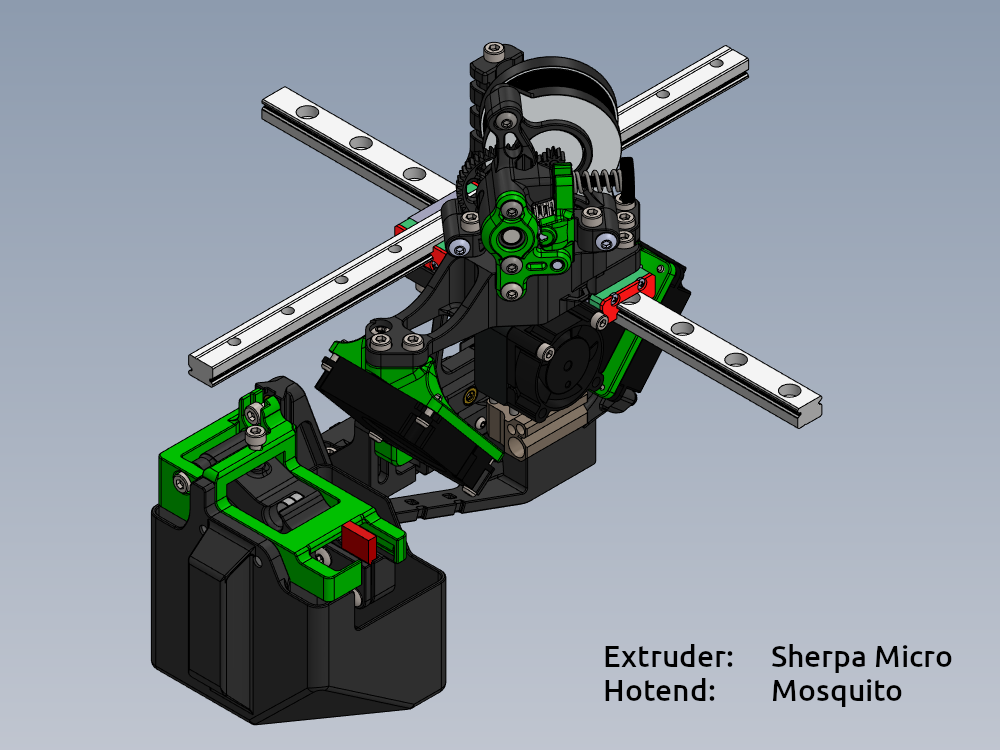
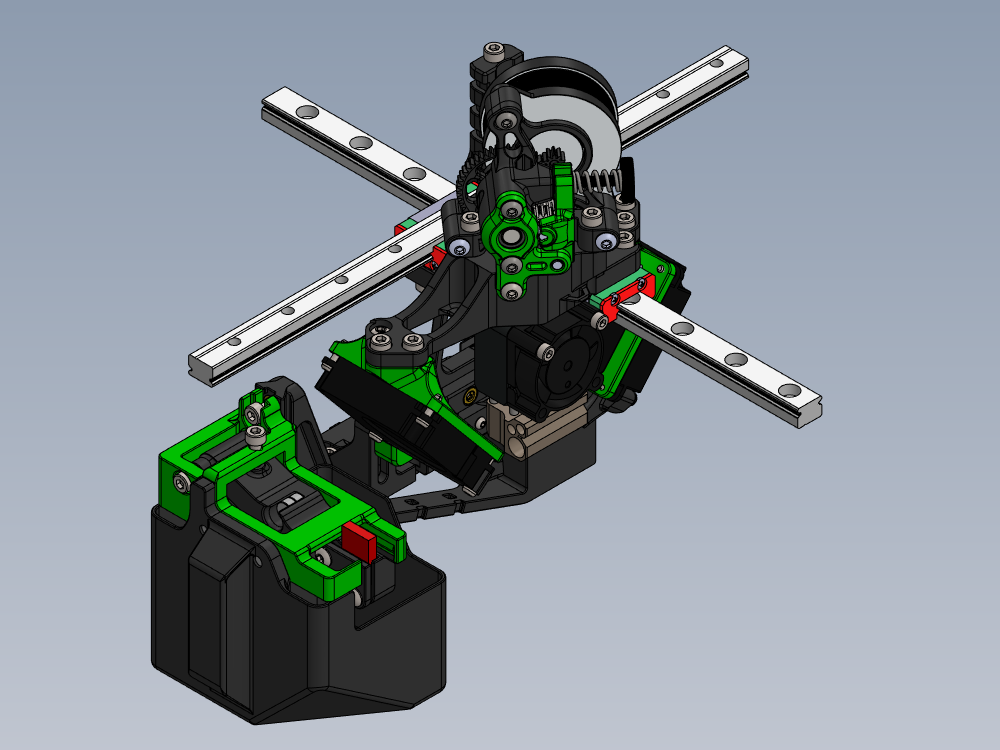
Remove captions from images Fix caption Double interval for k3 toolhead configs carousel

Changed region(s): [[0.775, 0.8587, 0.961, 0.9507], [0.589, 0.8587, 0.744, 0.9507]]

diff --git a/_projects/02-k3.md b/_projects/02-k3.md
@@ -61,7 +61,7 @@ extruder and hotend options.
 /assets/images/k3/toolhead_configs/02_sherpa_micro_mosquito.png,Extruder: Sherpa Micro\nHotend: Mosquito
 /assets/images/k3/toolhead_configs/03_ascender_mosquito.png,Extruder: Ascender\nHotend: Mosquito
 /assets/images/k3/toolhead_configs/04_lgx_lite_mosquito.png,Extruder: LGX Lite\nHotend: Mosquito
-/assets/images/k3/toolhead_configs/05_sherpa_mini_volcomosq.png,Extruder: Sherpa Mini\nHotend: Mosquito
+/assets/images/k3/toolhead_configs/05_sherpa_mini_volcomosq.png,Extruder: Sherpa Mini\nHotend: VolcoMosq
 /assets/images/k3/toolhead_configs/06_sherpa_mini_copperhead.png,Extruder: Sherpa Mini\nHotend: Copperhead
 /assets/images/k3/toolhead_configs/07_sherpa_mini_dragon.png,Extruder: Sherpa Mini\nHotend: Dragon
 /assets/images/k3/toolhead_configs/08_sherpa_mini_dragonfly_bms.png,Extruder: Sherpa Mini\nHotend: Dragonfly BMS
@@ -69,7 +69,7 @@ extruder and hotend options.
 /assets/images/k3/toolhead_configs/10_sherpa_mini_dragonfly_hic.png,Extruder: Sherpa Mini\nHotend: Dragonfly HIC
 /assets/images/k3/toolhead_configs/11_sherpa_mini_rapido_hf.png,Extruder: Sherpa Mini\nHotend: Rapido HF
 {% endcapture %}
-{% include elements/carousel-captioned.html images=carousel_images ride="carousel" interval="1000" caption="Toolhead Variants" %}
+{% include elements/carousel-captioned.html images=carousel_images ride="carousel" interval="2000" caption="Toolhead Variants" %}
 
 ## Front Door Engraving
 
